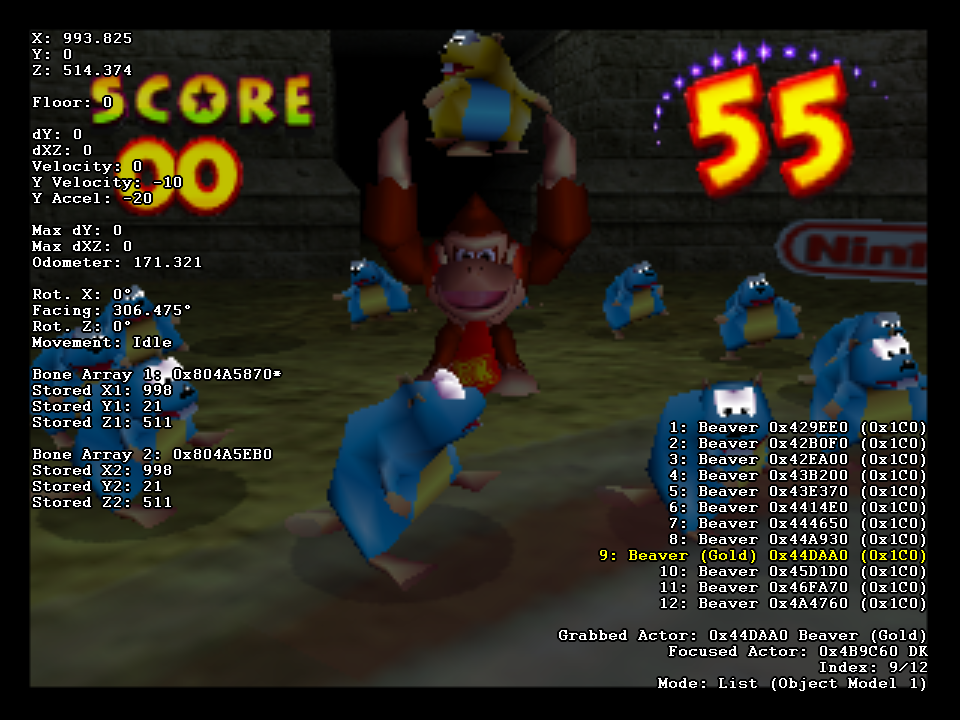
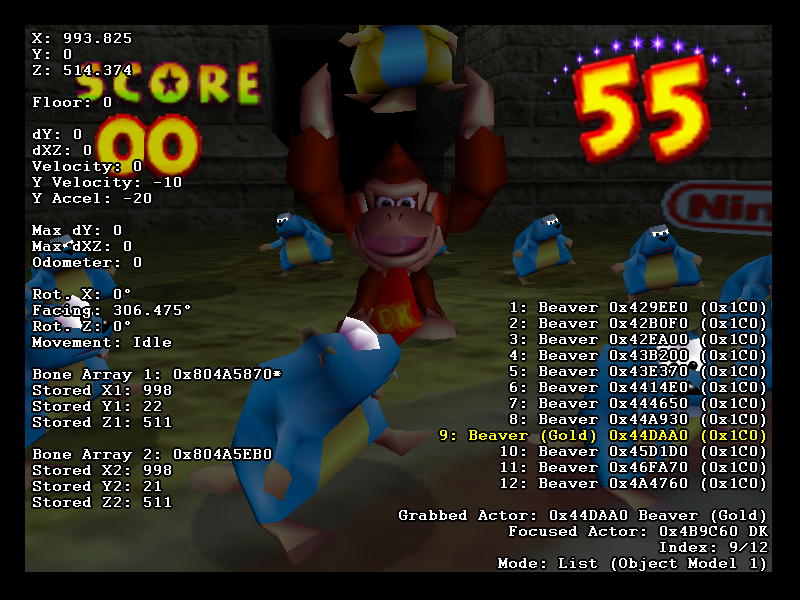
Replace DK64 image with a higher quality version
Also add a link to the bone displacement document

diff --git a/README.md b/README.md
@@ -23,7 +23,7 @@ A collection of Lua scripts and RAM watches for [BizHawk](https://github.com/TAS
 ###Donkey Kong 64
 - All known versions supported
 - Object analysis tools including: List, Examine, Grab, Focus, Encircle, Zip
-- Bone displacement fix (disables audio)
+- [Bone displacement](http://bombch.us/Bn1C) fix (disables audio)
 - Documentation of over 95% of permanent flags in USA save files
 
 ![Donkey Kong 64 Support](Images/Promo/dk64.png)
